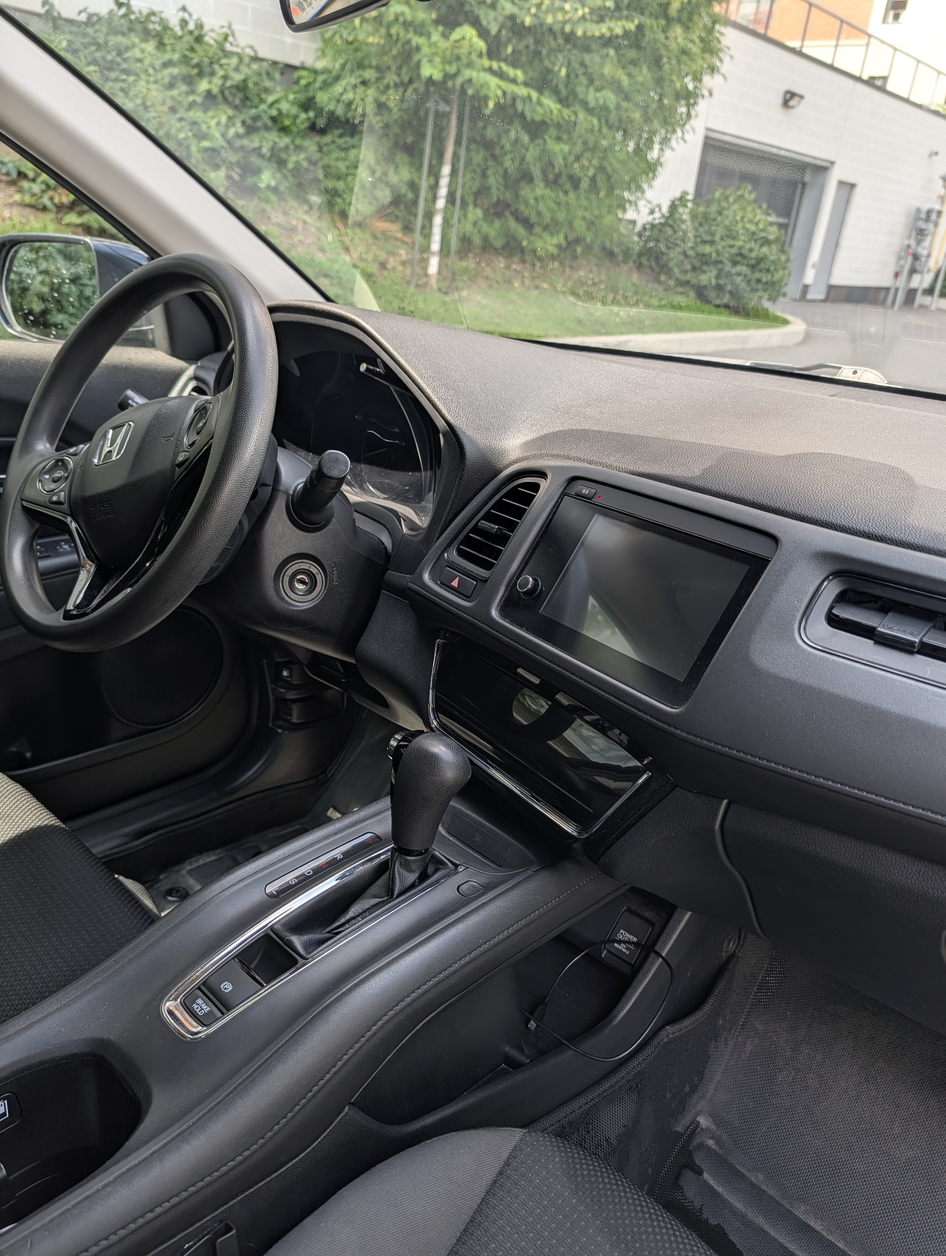
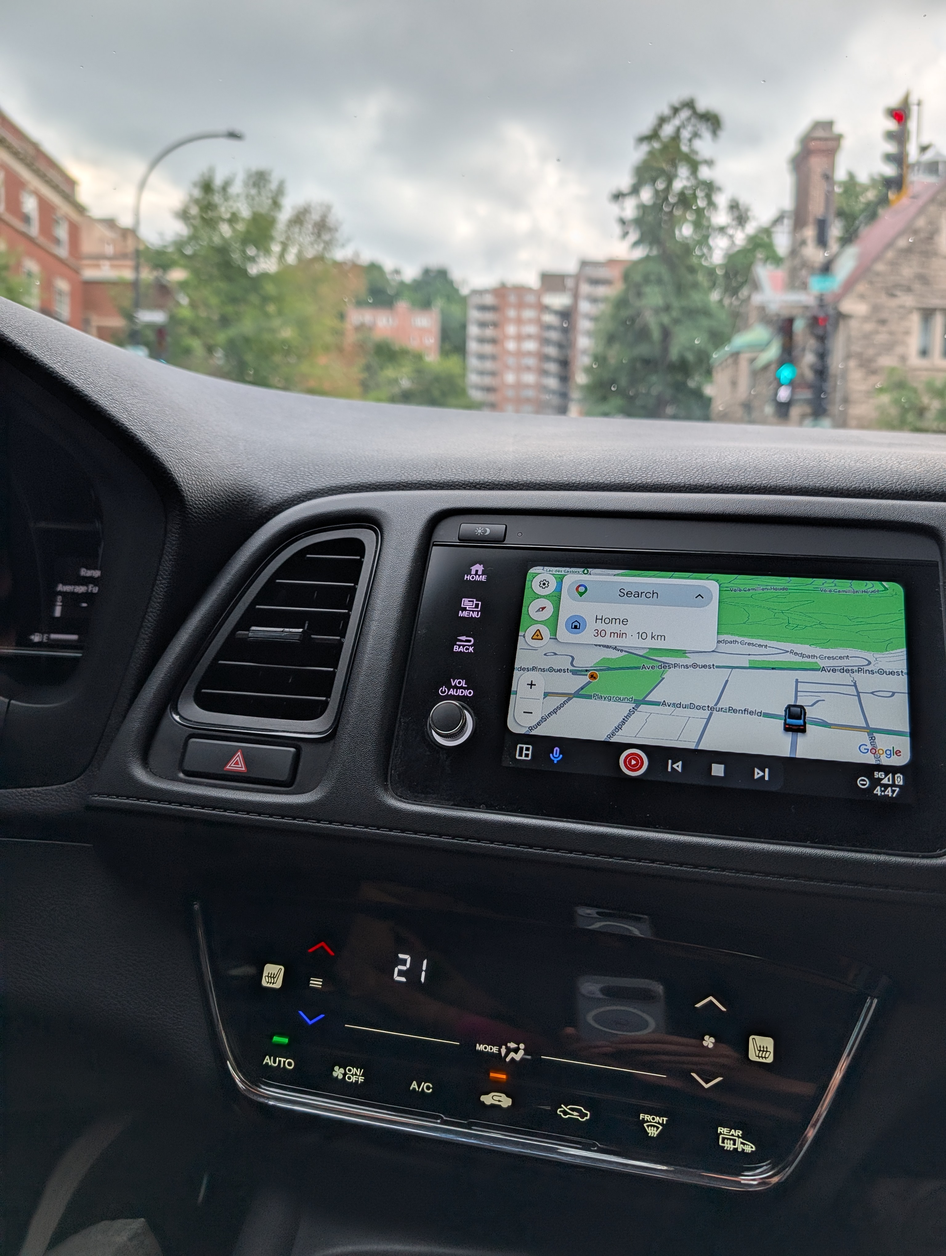
feat(catalog): sync listings and preserve photo order

diff --git a/admin-server.js b/admin-server.js
@@ -135,6 +135,21 @@ function getProductStatusRank(product) {
   return 0;
 }
 
+// Filesystem directory order is not a reliable gallery order. Sort the
+// sequential foto-N names numerically so foto-10 follows foto-9.
+function sortImagesNaturally(images) {
+  return images.sort((a, b) => {
+    const aMatch = a.match(/^foto-(\d+)/i);
+    const bMatch = b.match(/^foto-(\d+)/i);
+    if (aMatch && bMatch) {
+      return Number(aMatch[1]) - Number(bMatch[1]) || a.localeCompare(b);
+    }
+    if (aMatch) return -1;
+    if (bMatch) return 1;
+    return a.localeCompare(b);
+  });
+}
+
 function parseCategories(value) {
   if (Array.isArray(value)) {
     return value.map(String).map(item => item.trim()).filter(Boolean);
@@ -186,7 +201,9 @@ app.get('/api/products', (req, res) => {
           
           // Get images in the same folder
           const files = fs.readdirSync(folderPath);
-          const images = files.filter(file => /\.(jpg|jpeg|png|gif|webp)$/i.test(file));
+          const images = sortImagesNaturally(
+            files.filter(file => /\.(jpg|jpeg|png|gif|webp)$/i.test(file))
+          );
 
           const categories = parseCategories(attributes.categories);
 

diff --git a/views/index.html b/views/index.html
@@ -927,7 +927,9 @@
     // Load products list from API
     async function loadProducts() {
       try {
-        const response = await fetch('/api/products');
+        const response = await fetch(`/api/products?_=${Date.now()}`, {
+          cache: 'no-store'
+        });
         const products = await response.json();
         allProducts = products; // Save to global state
         updateCategoryWhitelist(products);
@@ -1362,9 +1364,12 @@
         const result = await response.json();
 
         if (response.ok && result.success) {
-          showToast(editMode ? 'Product updated successfully' : 'Product saved successfully');
+          const wasEdit = editMode;
           cancelEdit();
-          loadProducts();
+          // Wait for the fresh product list before allowing the editor to be
+          // reopened, otherwise it can use the pre-save photo order in memory.
+          await loadProducts();
+          showToast(wasEdit ? 'Product updated successfully' : 'Product saved successfully');
         } else {
           showToast(result.error || 'Error saving product', 'error');
         }

diff --git a/layouts/index.html b/layouts/index.html
@@ -77,11 +77,15 @@
 
       <div class="products-grid" id="products-grid">
         {{ range $productos }}
+          {{ $product := . }}
           {{ $images := slice }}
-          {{ range .Resources.ByType "image" }}
-            {{ $ext := path.Ext .Name | lower }}
-            {{ if not (in (slice ".heic" ".heif") $ext) }}
-              {{ $images = $images | append . }}
+          {{ $imageResources := $product.Resources.ByType "image" }}
+          {{ range $number := seq 1 (len $imageResources) }}
+            {{ with $product.Resources.GetMatch (printf "foto-%d.*" $number) }}
+              {{ $ext := path.Ext .Name | lower }}
+              {{ if not (in (slice ".heic" ".heif") $ext) }}
+                {{ $images = $images | append . }}
+              {{ end }}
             {{ end }}
           {{ end }}
           {{ $status := "available" }}

diff --git a/layouts/products/single.html b/layouts/products/single.html
@@ -8,11 +8,15 @@
   <div class="product-detail-layout">
     <!-- Left: Gallery Section -->
     <div class="product-gallery">
+      {{ $page := . }}
       {{ $images := slice }}
-      {{ range .Resources.ByType "image" }}
-        {{ $ext := path.Ext .Name | lower }}
-        {{ if not (in (slice ".heic" ".heif") $ext) }}
-          {{ $images = $images | append . }}
+      {{ $imageResources := $page.Resources.ByType "image" }}
+      {{ range $number := seq 1 (len $imageResources) }}
+        {{ with $page.Resources.GetMatch (printf "foto-%d.*" $number) }}
+          {{ $ext := path.Ext .Name | lower }}
+          {{ if not (in (slice ".heic" ".heif") $ext) }}
+            {{ $images = $images | append . }}
+          {{ end }}
         {{ end }}
       {{ end }}
       

diff --git a/content/products/honda-hr-v-lx-2019-fwd/index.md b/content/products/honda-hr-v-lx-2019-fwd/index.md
@@ -13,15 +13,24 @@ onHold: false
 ---
 **English**
 
-2019 Honda HR-V LX FWD, 93,000 km. Being sold by its second owner, who's moving out of the country. No mechanical issues, no warning lights — everything runs as it should. Full maintenance history with all service records available, serviced on Honda's official schedule the whole time.
+2019 Honda HR-V LX FWD with 93,000 km, offered by its second owner because it is no longer needed. No mechanical issues or warning lights — everything runs as it should. It has been maintained according to Honda's official service schedule, with a complete maintenance history and all service records available.
 
-Comes with two full sets of tires on their own rims (summer and winter) — the summer set is in good shape; the winter tires are still usable but may need replacing soon. Also includes a full set of floor mats (driver, passenger, rear and trunk). Cosmetically it has some light scratches here and there, nothing major. Carfax shows one minor claim (~$1,500) and no major accidents.
+The vehicle has received rustproofing treatment, and the front brake rotors were serviced six months ago. It comes with two full sets of tires on their own rims (summer and winter) — the summer set is in good shape; the winter tires are still usable but may need replacing soon. Also included is a complete set of floor mats (driver, passenger, rear and trunk). Cosmetically, it has a few light scratches, but nothing major. The Carfax report shows one minor claim (approximately $1,500) and no major accidents.
+
+Well equipped with the Honda Sensing™ suite, including Adaptive Cruise Control, Lane Keeping Assist, Lane Departure Warning, Road Departure Mitigation, Forward Collision Warning and the Collision Mitigation Braking System. Comfort and technology features include heated front seats, heated power side mirrors, Apple CarPlay and Android Auto, Bluetooth audio and hands-free calling, a multi-angle rearview camera with dynamic guidelines, automatic climate control, automatic high beams, an electronic parking brake with automatic brake hold, and Honda's versatile 60/40 Split 2nd-Row Magic Seat®.
 
 Price is negotiable and test drives are welcome.
 
 - ✅ 93,000 km, second owner
 - ✅ No mechanical issues or warning lights
 - ✅ Full maintenance records, serviced on Honda's official schedule
+- ✅ Rustproofing treatment completed
+- ✅ Front brake rotors serviced six months ago
+- ✅ Honda Sensing: adaptive cruise control, lane assistance and collision mitigation
+- ✅ Heated front seats and heated power side mirrors
+- ✅ Apple CarPlay, Android Auto, Bluetooth and multi-angle rearview camera
+- ✅ Automatic climate control, automatic high beams and automatic brake hold
+- ✅ Versatile 60/40 Split 2nd-Row Magic Seat
 - ✅ Two full tire/rim sets included (summer + winter)
 - ✅ Complete floor mat set (front, rear, trunk)
 - ⚠ One minor Carfax claim (~$1,500), no major accidents; winter tires may need replacing soon
@@ -31,15 +40,24 @@ Price is negotiable and test drives are welcome.
 
 **Français**
 
-Honda HR-V LX FWD 2019, 93 000 km. Vendue par son deuxième propriétaire, qui déménage à l'extérieur du pays. Aucun problème mécanique, aucun voyant allumé — tout fonctionne comme il se doit. Historique d'entretien complet, tous les dossiers de service disponibles, entretien réalisé selon le calendrier officiel Honda.
+Honda HR-V LX FWD 2019 avec 93 000 km, offert par son deuxième propriétaire puisqu'il n'en a plus besoin. Aucun problème mécanique ni voyant allumé — tout fonctionne comme il se doit. Le véhicule a été entretenu selon le calendrier officiel Honda; l'historique d'entretien est complet et tous les dossiers de service sont disponibles.
 
-Vendue avec deux jeux complets de pneus sur jantes (été et hiver) — le jeu d'été est en bon état; les pneus d'hiver sont encore utilisables mais pourraient bientôt devoir être remplacés. Comprend aussi un jeu complet de tapis (conducteur, passager, arrière et coffre). Sur le plan esthétique, quelques petites égratignures ici et là, rien de majeur. Le rapport Carfax indique une réclamation mineure (environ 1 500 $) et aucun accident majeur.
+Le véhicule a reçu un traitement antirouille, et les disques de frein avant ont été entretenus il y a six mois. Il est vendu avec deux jeux complets de pneus sur jantes (été et hiver) — le jeu d'été est en bon état; les pneus d'hiver sont encore utilisables mais pourraient bientôt devoir être remplacés. Un jeu complet de tapis (conducteur, passager, arrière et coffre) est également inclus. Sur le plan esthétique, il présente quelques légères égratignures, mais rien de majeur. Le rapport Carfax indique une réclamation mineure (environ 1 500 $) et aucun accident majeur.
+
+Très bien équipé avec la suite Honda Sensing™, comprenant le régulateur de vitesse adaptatif, le système d'aide au respect des voies, l'avertissement de franchissement de voie, l'atténuation de sortie de voie, l'avertissement de collision avant et le système de freinage à réduction d'impact. Les caractéristiques de confort et de technologie comprennent les sièges avant chauffants, les rétroviseurs extérieurs électriques chauffants, Apple CarPlay et Android Auto, la diffusion audio Bluetooth et les appels mains libres, une caméra de recul multiangle avec lignes de guidage dynamiques, la climatisation automatique, les feux de route automatiques, le frein de stationnement électronique avec maintien automatique et la banquette arrière Magic Seat® 60/40 polyvalente de Honda.
 
 Prix négociable, essais routiers bienvenus.
 
 - ✅ 93 000 km, deuxième propriétaire
 - ✅ Aucun problème mécanique ni voyant allumé
 - ✅ Dossiers d'entretien complets, entretien selon le calendrier officiel Honda
+- ✅ Traitement antirouille effectué
+- ✅ Disques de frein avant entretenus il y a six mois
+- ✅ Honda Sensing : régulateur de vitesse adaptatif, aide au respect des voies et atténuation des collisions
+- ✅ Sièges avant chauffants et rétroviseurs extérieurs électriques chauffants
+- ✅ Apple CarPlay, Android Auto, Bluetooth et caméra de recul multiangle
+- ✅ Climatisation et feux de route automatiques, avec maintien automatique des freins
+- ✅ Banquette arrière Magic Seat 60/40 polyvalente
 - ✅ Deux jeux complets de pneus/jantes inclus (été + hiver)
 - ✅ Jeu complet de tapis (avant, arrière, coffre)
 - ⚠ Une réclamation mineure au Carfax (environ 1 500 $), aucun accident majeur; les pneus d'hiver pourraient bientôt nécessiter un remplacement

diff --git a/content/products/stearns-foster-king-mattress-matelas-tres-grand-lit/index.md b/content/products/stearns-foster-king-mattress-matelas-tres-grand-lit/index.md
@@ -1,0 +1,37 @@
+---
+title: "Stearns & Foster King Mattress / Matelas très grand lit"
+price: 200
+date: 2026-06-18T13:47:32.391Z
+draft: false
+categories: ["Furniture"]
+referenceUrl: "https://www.costco.ca/p/-/kirkland-signature-by-stearns-foster-lakeridge-luxury-cushion-firm-pillowtop-mattress/4101000160?adobe_mc=TS%3D1781788987%7CMCMID%3D58222761001629601375751792479289910566%7CMCORGID%3D97B21CFE5329614E0A490D45@AdobeOrg&mboxSession=90d9ef82-5672-4538-b960-33b37270d5b5&langId=-24&sh=true&nf=true"
+availableFrom: "2026-08-20"
+weight: 8
+sold: false
+onHold: false
+---
+**English**
+
+Kirkland Signature by Stearns & Foster Lakeridge king-size cushion-firm pillowtop mattress, purchased in October 2022. Always used with a waterproof mattress protector and has no stains.
+
+- ✅ 14.5-inch pillowtop with innerspring, gel foam and memory foam construction
+- ✅ IntelliCoil HD support with reinforced ventilated edges
+- ✅ King-size sleeping surface
+- ✅ Bed bases can be included if needed
+- 📏 76 x 79.5 x 14.5 in. (193 x 202 x 36.8 cm)
+- ⚠ Weighs approximately 165 lb; please plan for two adults and a suitable vehicle
+- ✅ I can help move it to the vehicle if needed
+- 📅 Available starting August 20
+
+**Français**
+
+Matelas très grand lit Kirkland Signature by Stearns & Foster Lakeridge à plateau-coussin et fermeté coussinée, acheté en octobre 2022. Il a toujours été protégé par un protège-matelas imperméable et ne présente aucune tache.
+
+- ✅ Profil de 14,5 po avec ressorts, mousse infusée de gel et mousse mémoire
+- ✅ Soutien IntelliCoil HD et bordure renforcée ventilée
+- ✅ Grande surface de couchage de format très grand lit
+- ✅ Les sommiers peuvent être inclus au besoin
+- 📏 76 x 79,5 x 14,5 po (193 x 202 x 36,8 cm)
+- ⚠ Poids d'environ 165 lb; prévoyez deux adultes et un véhicule adapté
+- ✅ Je peux aider à le déplacer jusqu’au véhicule au besoin
+- 📅 Disponible à partir du 20 août

diff --git a/content/products/ikea-styrspel-purple-chair-chaise-de-jeu-violette/index.md b/content/products/ikea-styrspel-purple-chair-chaise-de-jeu-violette/index.md
@@ -1,0 +1,37 @@
+---
+title: "IKEA STYRSPEL Purple Chair / Chaise de jeu violette"
+price: 120
+date: 2026-06-16T15:45:49.074Z
+draft: false
+categories: ["Furniture"]
+referenceUrl: "https://www.ikea.com/ca/en/p/styrspel-gaming-chair-dark-gray-gray-50522035/"
+availableFrom: "2026-08-20"
+weight: 7
+sold: false
+onHold: false
+---
+**English**
+
+Used IKEA STYRSPEL purple-and-black gaming chair with breathable mesh and multiple adjustments for a work-from-home or gaming setup.
+
+- ✅ Adjustable headrest and lumbar support
+- ✅ Adjustable armrests, seat height and seat depth
+- ✅ Synchronized recline with four locking positions
+- ✅ Tested by IKEA for up to 125 kg (276 lb)
+- 📏 71 cm W x 69 cm D; adjustable overall height from 119 to 142 cm
+- 📦 Sold assembled and ready for pickup
+- 📅 Available for pickup from August 20 to 26
+
+**Français**
+
+Chaise de jeu IKEA STYRSPEL usagée, violette et noire, avec assise et dossier en maille respirante. Ses nombreux réglages conviennent autant au télétravail qu'au gaming.
+
+- ✅ Appuie-tête et soutien lombaire réglables
+- ✅ Accoudoirs, hauteur et profondeur d'assise réglables
+- ✅ Inclinaison synchronisée verrouillable en quatre positions
+- ✅ Testée par IKEA pour une charge maximale de 125 kg (276 lb)
+- 📏 71 cm de largeur x 69 cm de profondeur; hauteur totale de 119 à 142 cm
+- 📦 Vendue assemblée et prête pour le ramassage
+- 📅 Disponible pour ramassage du 20 au 26 août
+
+https://www.ikea.com/ca/en/files/pdf/38/26/3826dd94/home-office-and-gaming-chairs-buying-guide-fy25-l2-en.pdf

diff --git a/content/products/jar-with-lid-bocal-avec-couvercle-verre-clair/index.md b/content/products/jar-with-lid-bocal-avec-couvercle-verre-clair/index.md
@@ -1,0 +1,16 @@
+---
+title: "Jar with lid - Bocal avec couvercle, verre clair"
+price: 2
+date: 2026-08-04T17:31:49.952Z
+draft: false
+categories: ["Kitchen", "Storage"]
+referenceUrl: "https://www.ikea.com/ca/en/p/korken-jar-with-lid-clear-glass-70227986/"
+videoUrl: ""
+availableFrom: ""
+weight: 15
+sold: false
+onHold: false
+---
+KORKEN series is ideal for preserving pickles and jams, serving beverages or keeping your cookies crunchy. The airtight seal locks in all the goodness.
+********************
+La collection de bocaux KORKEN est idéale pour conserver les cornichons et la confiture, pour servir des boissons ou que les biscuits demeurent croquants. La fermeture hermétique permet de conserver toute la fraîcheur des aliments.

diff --git a/content/products/portant-a-vetements-sur-roulettes-garment-rack/index.md b/content/products/portant-a-vetements-sur-roulettes-garment-rack/index.md
@@ -1,0 +1,16 @@
+---
+title: "Portant à vêtements sur roulettes / Garment Rack"
+price: 5
+date: 2026-08-04T17:43:01.880Z
+draft: false
+categories: ["Storage", "Clothes"]
+referenceUrl: ""
+videoUrl: ""
+availableFrom: "2026-08-21"
+weight: 11
+sold: false
+onHold: false
+---
+White rolling clothes rack in great condition. Lightweight, easy to move around with wheels. Perfect for hanging clothes or drying laundry. (Note: Clothes hangers are not included).
+
+Portant à vêtements blanc sur roulettes en très bon état. Léger et facile à déplacer. Idéal pour ranger ou sécher les vêtements. (Note : Les cintres ne sont pas inclus).

diff --git a/content/products/casse-noix-nutcracker/index.md b/content/products/casse-noix-nutcracker/index.md
@@ -1,0 +1,16 @@
+---
+title: "casse-noix / nutcracker"
+price: 2
+date: 2026-08-04T17:54:48.224Z
+draft: false
+categories: ["Kitchen"]
+referenceUrl: ""
+videoUrl: ""
+availableFrom: ""
+weight: 11
+sold: false
+onHold: false
+---
+Un ustensile de cuisine en métal argenté doté de poignées ergonomiques et lisses, conçu pour casser les noix ou les crustacés
+*********************************
+A silver metal kitchen tool with textured, smooth-grip handles designed for cracking open nuts or shellfish

diff --git a/content/products/3-storage-boxes-3-boites-de-rangement-different-size/index.md b/content/products/3-storage-boxes-3-boites-de-rangement-different-size/index.md
@@ -1,5 +1,5 @@
 ---
-title: "Storage box / Boîte de rangement"
+title: "3 Storage boxes / 3  Boîtes de rangement (different size)"
 price: 10
 date: 2026-06-15T15:45:22.315Z
 draft: false
@@ -11,6 +11,9 @@ weight: 15
 sold: false
 onHold: false
 ---
-SOCKERBIT  Storage box with lid, white, 38x76x30 cm (15x30x11 ¾ ")
+SOCKERBIT  Storage box with lid, white, 
+38x76x30 cm (15x30x11 ¾ ")
+38x51x30 cm
 
 Bac de rangement SOCKERBIT avec couvercle, blanc  38x76x30 cm (15x30x11 ¾ ")
+ 38x51x30 cm

diff --git a/content/products/desk-bureau/index.md b/content/products/desk-bureau/index.md
@@ -1,13 +1,12 @@
 ---
 title: "Desk / Bureau "
-price: 40
+price: 20
 date: 2026-06-19T18:09:31.990Z
 draft: false
 categories: ["Furniture"]
 referenceUrl: "https://www.ikea.com/ca/en/p/pahl-desk-height-adjustable-white-s49619340/#content"
-videoUrl: ""
-availableFrom: ""
-weight: 7
+availableFrom: "2026-08-21"
+weight: 10
 sold: false
 onHold: false
 ---
